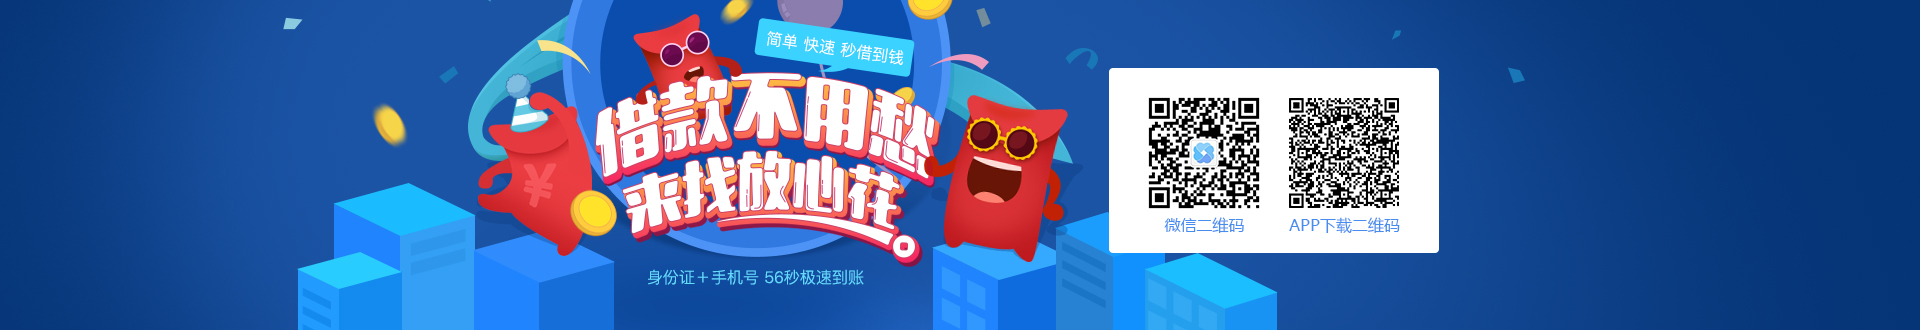
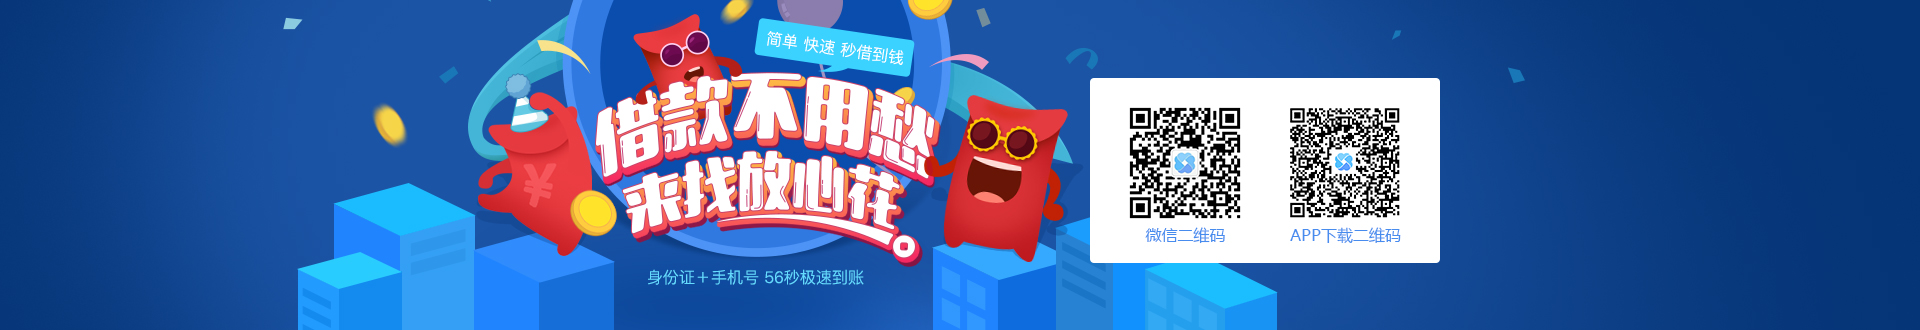
qr

Changed region(s): [[0.5625, 0.1818, 0.75, 0.8182]]

diff --git a/apps/loan-web/home/react/index.jsx b/apps/loan-web/home/react/index.jsx
@@ -139,7 +139,7 @@ class Content extends React.Component{
                         </div>
                         <div className="b-er">
                             <img src="../images/erweima1.png"/>
-                            <img src="../images/erweima2.png"/>
+                            <img src="../images/erweima2.jpg"/>
                         </div>
                     </div>
                 </div>
